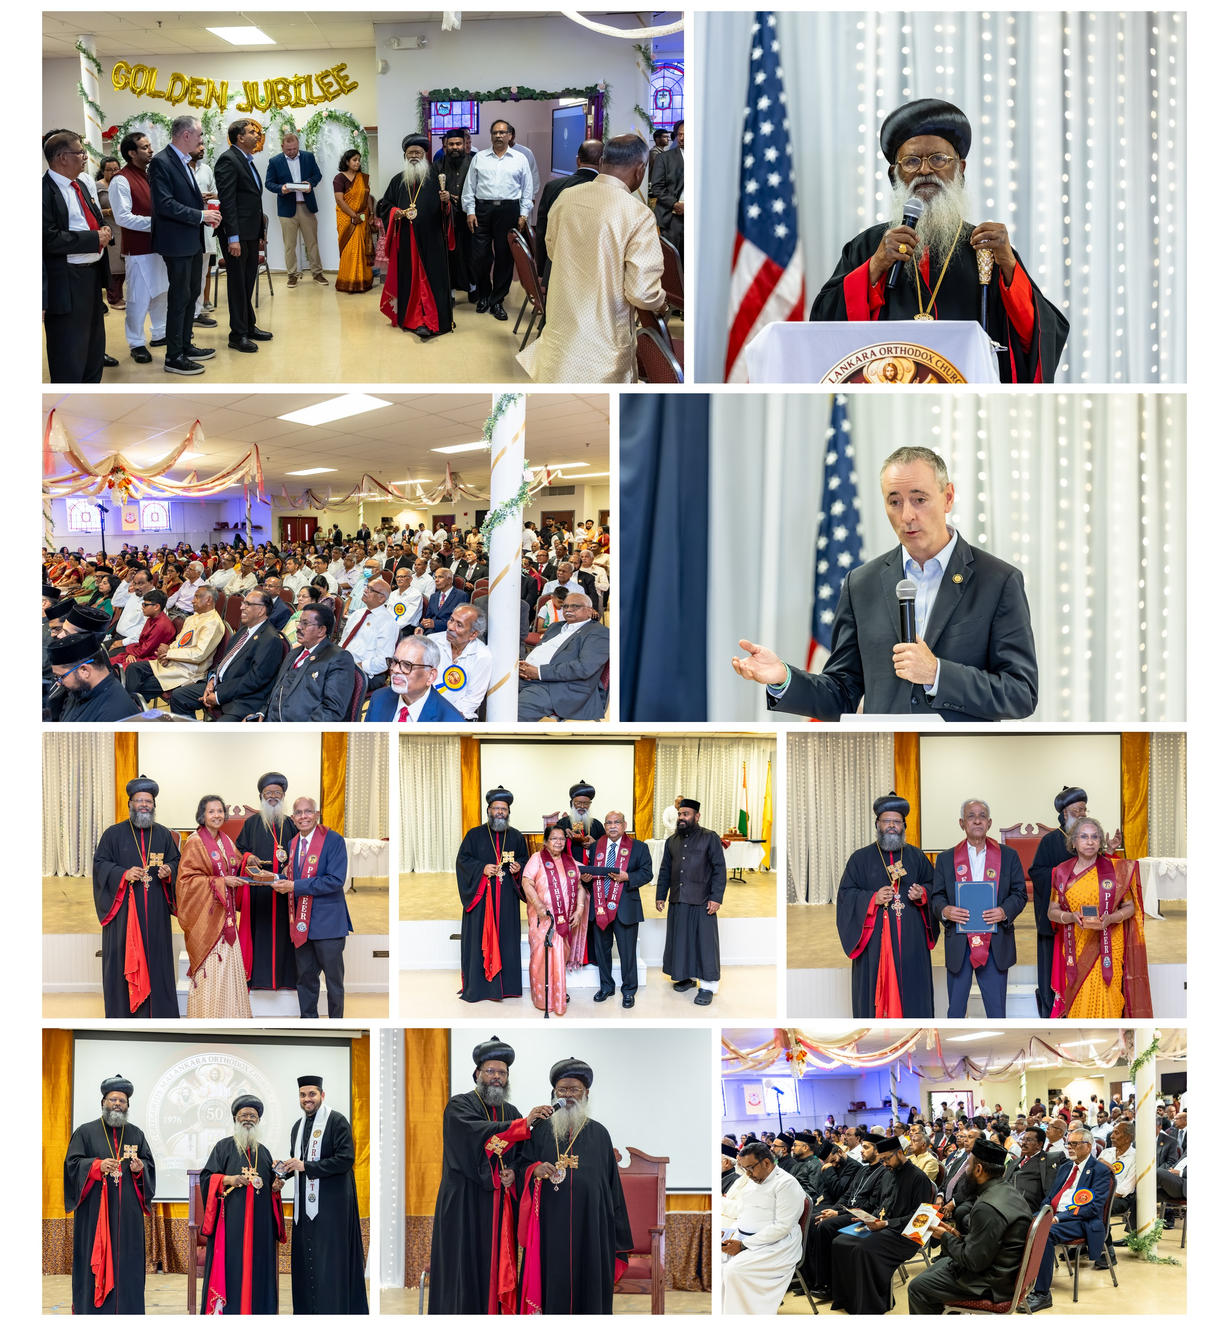
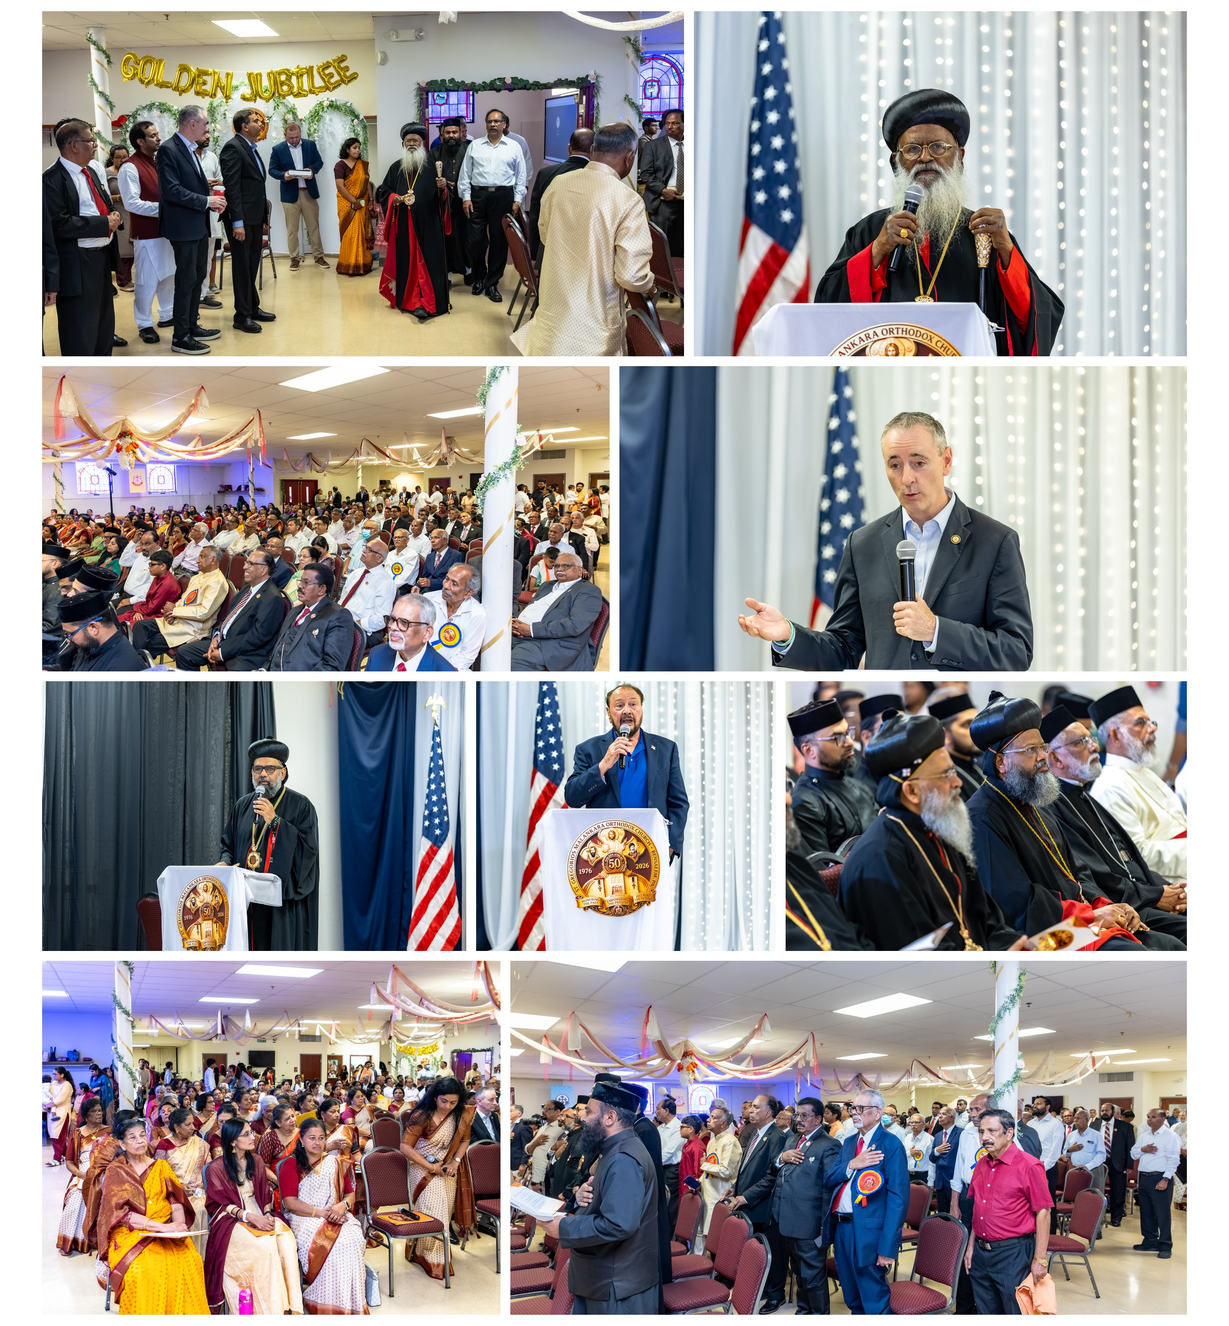
19 Nov (Mathew: honorees in the evening collage not a good idea): p. 49 public meeting page without individual honorees - Thirumenis and dignitaries speaking, the clergy, the hall and the parish.
Claude-Session: https://claude.ai/code/session_01TBVapd8wHKSpqpcgC95Xp1

diff --git a/status.html b/status.html
@@ -28,11 +28,11 @@
 <body>
 <header>
   <h1>Golden Jubilee Souvenir — open items</h1>
-  <p>Updated Nov 19, 2026, 7:38 PM · 246 pages · <a href="https://mjoseph11.github.io/souvenir/">open the souvenir</a></p>
+  <p>Updated Nov 19, 2026, 7:41 PM · 246 pages · <a href="https://mjoseph11.github.io/souvenir/">open the souvenir</a></p>
 </header>
 <main>
 <section><h2>To be completed <span class="count">22</span></h2><p class="hint">Pages and photos still to come, with what each page is meant to hold. Page numbers are from the current book and update on their own.</p><ol><li><span class="pg">p. 12</span><span class="tx">Achen's message is still a draft (marked &quot;awaiting final text&quot;) <em>waiting on Achen</em></span></li><li><span class="pg">p. 12</span><span class="tx">A proper photo of Very Rev. Geevarghese Remban for his message (the one on the page is temporary) and for the Chosen to Shepherd page (p. 26, 96 dpi)</span></li><li><span class="pg">p. 14</span><span class="tx">Message from the Trustee: photo missing — Mr. Thomas Ninan
-          TrusteeSt. Gregorios Malankara Orthodox Church, Bensalem</span></li><li><span class="pg">p. 14</span><span class="tx">Reji (Thomas) Ninan's picture for the Trustee's message (p. 14) - Reji is looking for one (Manoj, 18 Nov 8:19 PM); Suchin will take his photo this Sunday (9:48 PM) <em>waiting on Suchin · asked 2026-11-18</em></span></li><li><span class="pg">p. 26</span><span class="tx">A Farewell Message: From Very Rev. Geevarghese Remban<span class="about">A farewell message to the parish after fifteen years as Vicar (2011–2026), to be requested from Achen.</span></span></li><li><span class="pg">p. 27</span><span class="tx">Fifteen Years in Pictures: Very Rev. Geevarghese Remban (Shibu Achen) with Our Parish<span class="about">Photographs from his years at SGMOC, the August 27, 2026 announcement and the parish felicitation. A high-resolution portrait is also needed — the current photo (170×241 px) is too small to print.</span></span></li><li><span class="pg">p. 41</span><span class="tx">Founding members: use Manoj's Acrobat list (all names valid, even the struck-out ones); cross-check names and spelling with Ente Palli or the church list - Suchin checking against the Ente Palli list tonight (19 Nov 7:11 PM) <em>waiting on Suchin · asked 2026-11-18</em></span></li><li><span class="pg">p. 43</span><span class="tx">Our Parish: Our Parish in Pictures <em>planned: 3–6 pages, ending with the Perunnal</em><span class="about">Milestone photographs and significant events (cemetery purchase, monument, ministry center, consecration 2009, and more).</span></span></li><li><span class="pg">p. 48</span><span class="tx">Golden Jubilee afternoon/evening pictures: two new pages from the photographer's set (procession; public meeting and pioneer honors), pp. 48-49 (Manoj 19 Nov 7:30 PM; Molsey: none in the collage). Cultural programs still have no pictures <em>waiting on Suchin - Sumod does not have them; maybe Jiji Koshy (18 Nov 8:22 PM) · asked 2026-11-18</em></span></li><li><span class="pg">p. 53</span><span class="tx">In Memoriam: Church Members Remembered Since 1976<span class="about">Members of our parish who have fallen asleep in the Lord since 1976. Being prepared by Santosh.</span></span></li><li><span class="pg">p. 74</span><span class="tx">GROW: Secretary and Treasurer (now TBD), a write-up of GROW at SGMOC, and photos for the two empty photo boxes - Manoj asking Silvi; GROW and GROW Sprouts together should be one page (19 Nov 6:52 PM)</span></li><li><span class="pg">p. 76</span><span class="tx">MGOCSM: write-up of its history at SGMOC and photos for the empty photo boxes - Youth League/MGOCSM will send by Sunday (Manoj, 19 Nov 6:51 PM)</span></li><li><span class="pg">p. 77</span><span class="tx">MGOCSM / Youth League: MGOCSM — In Pictures <em>planned: 2 side-by-side pages</em><span class="about">Group photo, retreats and activities.</span></span></li><li><span class="pg">p. 84</span><span class="tx">Larger originals of &quot;Sock Drive, November 2020&quot; and &quot;Winter Coat Drive banner, 2020&quot; (both print below 150 dpi) <em>waiting on Silvi Chacko · asked 2026-11-18</em></span></li><li><span class="pg">p. 238</span><span class="tx">Golden Jubilee Sponsor: Sajicha's CPA<span class="about">Sponsor advertisement — coming from Sajicha (tomorrow, 19 Nov).</span></span></li><li><span class="pg">p. 239</span><span class="tx">Fluitron ad is Thomas Joseph's (TJ) (Suchin 9:39 AM, Manoj 10:41 AM) - added on p. 237 in place of Manoj's placeholder ad; the file is only 707x1000 (107 dpi) - need the original, ideally a PDF <em>waiting on Thomas Joseph · asked 2026-11-19</em></span></li><li><span class="pg">p. 240</span><span class="tx">Glossary<span class="about">Orthodox and Malayalam terms used in this book (Achen, Kochamma, Holy Qurbana, Perunnal, Remban, Kalpana…), to be compiled.</span></span></li><li><span class="pg">p. 241</span><span class="tx">Acknowledgements: Editorial Board &amp; Acknowledgements<span class="about">Editorial board: Manoj Chacko, Suchin Thompson, Molsey Thomas, Shiju Poovathoor, Jinu John, Mathew Joseph. Full list and thanks to be finalized.</span></span></li><li><span class="pg"></span><span class="tx">Picture pages: Golden Jubilee in Pictures (4 pages) and Our Parish in Pictures still to do in the full-space style (MMVS done) - asked Manoj whether he is sending new full-size collages - Shijicha has the selected pictures (Manoj 9:37 PM) <em>waiting on Shijicha · asked 2026-11-18</em></span></li><li><span class="pg"></span><span class="tx">Shibu Achen (Remban) page and pictures - Lyn working on it, hopefully by 20 Nov (Manoj, 19 Nov 6:50 PM) <em>waiting on Lyn · asked 2026-11-19</em></span></li><li><span class="pg"></span><span class="tx">Member proofs: 28 still to send and 60 approvals to get - aim to finish in the next couple of days; tracked in Manoj's spreadsheet (19 Nov 5:45 PM; Molsey and another member helping) <em>waiting on Editorial board · asked 2026-11-19</em></span></li><li><span class="pg"></span><span class="tx">Golden Jubilee cultural programs: no pictures yet (the photographer's set has none) - Gigi uncle's video or the GJ social media team <em>waiting on Manoj · asked 2026-11-19</em></span></li></ol></section>
+          TrusteeSt. Gregorios Malankara Orthodox Church, Bensalem</span></li><li><span class="pg">p. 14</span><span class="tx">Reji (Thomas) Ninan's picture for the Trustee's message (p. 14) - Reji is looking for one (Manoj, 18 Nov 8:19 PM); Suchin will take his photo this Sunday (9:48 PM) <em>waiting on Suchin · asked 2026-11-18</em></span></li><li><span class="pg">p. 26</span><span class="tx">A Farewell Message: From Very Rev. Geevarghese Remban<span class="about">A farewell message to the parish after fifteen years as Vicar (2011–2026), to be requested from Achen.</span></span></li><li><span class="pg">p. 27</span><span class="tx">Fifteen Years in Pictures: Very Rev. Geevarghese Remban (Shibu Achen) with Our Parish<span class="about">Photographs from his years at SGMOC, the August 27, 2026 announcement and the parish felicitation. A high-resolution portrait is also needed — the current photo (170×241 px) is too small to print.</span></span></li><li><span class="pg">p. 41</span><span class="tx">Founding members: use Manoj's Acrobat list (all names valid, even the struck-out ones); cross-check names and spelling with Ente Palli or the church list - Suchin checking against the Ente Palli list tonight (19 Nov 7:11 PM) <em>waiting on Suchin · asked 2026-11-18</em></span></li><li><span class="pg">p. 43</span><span class="tx">Our Parish: Our Parish in Pictures <em>planned: 3–6 pages, ending with the Perunnal</em><span class="about">Milestone photographs and significant events (cemetery purchase, monument, ministry center, consecration 2009, and more).</span></span></li><li><span class="pg">p. 48</span><span class="tx">Golden Jubilee afternoon/evening pictures: two new pages from the photographer's set (procession; public meeting), pp. 48-49 (Manoj 19 Nov 7:30 PM; Molsey: none in the collage). Cultural programs still have no pictures <em>waiting on Suchin - Sumod does not have them; maybe Jiji Koshy (18 Nov 8:22 PM) · asked 2026-11-18</em></span></li><li><span class="pg">p. 53</span><span class="tx">In Memoriam: Church Members Remembered Since 1976<span class="about">Members of our parish who have fallen asleep in the Lord since 1976. Being prepared by Santosh.</span></span></li><li><span class="pg">p. 74</span><span class="tx">GROW: Secretary and Treasurer (now TBD), a write-up of GROW at SGMOC, and photos for the two empty photo boxes - Manoj asking Silvi; GROW and GROW Sprouts together should be one page (19 Nov 6:52 PM)</span></li><li><span class="pg">p. 76</span><span class="tx">MGOCSM: write-up of its history at SGMOC and photos for the empty photo boxes - Youth League/MGOCSM will send by Sunday (Manoj, 19 Nov 6:51 PM)</span></li><li><span class="pg">p. 77</span><span class="tx">MGOCSM / Youth League: MGOCSM — In Pictures <em>planned: 2 side-by-side pages</em><span class="about">Group photo, retreats and activities.</span></span></li><li><span class="pg">p. 84</span><span class="tx">Larger originals of &quot;Sock Drive, November 2020&quot; and &quot;Winter Coat Drive banner, 2020&quot; (both print below 150 dpi) <em>waiting on Silvi Chacko · asked 2026-11-18</em></span></li><li><span class="pg">p. 238</span><span class="tx">Golden Jubilee Sponsor: Sajicha's CPA<span class="about">Sponsor advertisement — coming from Sajicha (tomorrow, 19 Nov).</span></span></li><li><span class="pg">p. 239</span><span class="tx">Fluitron ad is Thomas Joseph's (TJ) (Suchin 9:39 AM, Manoj 10:41 AM) - added on p. 237 in place of Manoj's placeholder ad; the file is only 707x1000 (107 dpi) - need the original, ideally a PDF <em>waiting on Thomas Joseph · asked 2026-11-19</em></span></li><li><span class="pg">p. 240</span><span class="tx">Glossary<span class="about">Orthodox and Malayalam terms used in this book (Achen, Kochamma, Holy Qurbana, Perunnal, Remban, Kalpana…), to be compiled.</span></span></li><li><span class="pg">p. 241</span><span class="tx">Acknowledgements: Editorial Board &amp; Acknowledgements<span class="about">Editorial board: Manoj Chacko, Suchin Thompson, Molsey Thomas, Shiju Poovathoor, Jinu John, Mathew Joseph. Full list and thanks to be finalized.</span></span></li><li><span class="pg"></span><span class="tx">Picture pages: Golden Jubilee in Pictures (4 pages) and Our Parish in Pictures still to do in the full-space style (MMVS done) - asked Manoj whether he is sending new full-size collages - Shijicha has the selected pictures (Manoj 9:37 PM) <em>waiting on Shijicha · asked 2026-11-18</em></span></li><li><span class="pg"></span><span class="tx">Shibu Achen (Remban) page and pictures - Lyn working on it, hopefully by 20 Nov (Manoj, 19 Nov 6:50 PM) <em>waiting on Lyn · asked 2026-11-19</em></span></li><li><span class="pg"></span><span class="tx">Member proofs: 28 still to send and 60 approvals to get - aim to finish in the next couple of days; tracked in Manoj's spreadsheet (19 Nov 5:45 PM; Molsey and another member helping) <em>waiting on Editorial board · asked 2026-11-19</em></span></li><li><span class="pg"></span><span class="tx">Golden Jubilee cultural programs: no pictures yet (the photographer's set has none) - Gigi uncle's video or the GJ social media team <em>waiting on Manoj · asked 2026-11-19</em></span></li></ol></section>
 <section><h2>Low-quality pictures <span class="count">11</span></h2><p class="hint">These print below 150 dpi at their size on the page — a larger copy of the original is needed.</p><ol><li><span class="pg">p. 24</span><span class="tx">Chosen to Shepherd — Geevarghese Remban <em>96 dpi</em></span></li><li><span class="pg">p. 34</span><span class="tx">Our Parish History — Torresdale Church <em>148 dpi</em></span></li><li><span class="pg">p. 36</span><span class="tx">Our Parish History — Sunthroneeso of H.G. Zachariah Mar Nicholovos <em>92 dpi</em></span></li><li><span class="pg">p. 37</span><span class="tx">Our Parish History — Bensalem 5k, 2016 <em>149 dpi</em></span></li><li><span class="pg">p. 57</span><span class="tx">Our Sunday School — ss-03 <em>114 dpi</em></span></li><li><span class="pg">p. 84</span><span class="tx">SGMOC Mission Board — Sock Drive, November 2020 <em>107 dpi</em></span></li><li><span class="pg">p. 84</span><span class="tx">SGMOC Mission Board — Winter Coat Drive banner, 2020 <em>93 dpi</em></span></li><li><span class="pg">p. 140</span><span class="tx">Alex John &amp; Family <em>136 dpi</em></span></li><li><span class="pg">p. 234</span><span class="tx">Golden Jubilee Sponsor — Molly Mathew — Conquer Your Future <em>86 dpi</em></span></li><li><span class="pg">p. 235</span><span class="tx">Golden Jubilee Sponsor — Malabar Catering <em>141 dpi</em></span></li><li><span class="pg">p. 239</span><span class="tx">Golden Jubilee Sponsor — Fluitron — Thomas Joseph <em>107 dpi</em></span></li></ol></section>
 <section><h2>Questions <span class="count">5</span></h2><ol><li><span class="pg">p. 41</span><span class="tx">&quot;V. S. Mathew &amp; Rachel (Uncle came 1977)&quot; — is this correct? <em>asked 2026-11-18</em></span></li><li><span class="pg">p. 81</span><span class="tx">The Mission Board runs to 18 pages — too many; Molsey finds it long and repetitive. Manoj to go through it. <em>waiting on Manoj - Silvi's write-up stays for the sample print; Manoj will rework it after (&quot;very hard read, so many repetitions&quot;, 18 Nov 8:41 PM) · asked 2026-11-17</em></span></li><li><span class="pg">p. 85</span><span class="tx">&quot;Ivin's Outreach, 2021&quot; — should the picture be straightened? <em>waiting on Silvi Chacko · asked 2026-11-18</em></span></li><li><span class="pg"></span><span class="tx">Spine width and page count for the order: 242 inner pages plus 4 printed cover pages (246 page sides) - check Vistaprint's template; print file uses a 0.5in spine <em>waiting on Manoj</em></span></li><li><span class="pg"></span><span class="tx">Farewell message from Very Rev. Geevarghese Remban: Manoj thinks it is not needed (&quot;it's never a farewell&quot;) - remove the placeholder page? The book also still waits on his main message (Manoj, 19 Nov 6:50 PM) <em>waiting on Mathew · asked 2026-11-19</em></span></li></ol></section>
 <section class="done"><h2>Recently done <span class="count">45</span></h2><ol><li><span class="pg">p. 4</span><span class="tx">Which St. Thomas picture? Achen's choice (the painting used in the last souvenir) is now on the page. <em>done 2026-11-18</em></span></li><li><span class="pg">p. 12</span><span class="tx">Remban's message laid out like Fr. K. P. Varghese's page, with a temporary picture (from his WhatsApp profile) until a proper photo comes <em>done 2026-11-18</em></span></li><li><span class="pg">p. 15</span><span class="tx">Lyn's (Mathew Kurian's) portrait on his Secretary's message (p. 15) and the Executive Committee (p. 16) <em>done 2026-11-18</em></span></li><li><span class="pg">p. 15</span><span class="tx">Secretary's message: name printed as Mathew Madathil Kurian, and Remban titled as in the rest of the book (Lyn's answers) <em>done 2026-11-18</em></span></li><li><span class="pg">p. 16</span><span class="tx">Thomas Paul's and Yohannan Mathai's photos — taken from their family pages <em>done 2026-11-18</em></span></li><li><span class="pg">p. 16</span><span class="tx">Management Committee &amp; Board group photos <em>done 2026-11-18</em></span></li><li><span class="pg">p. 20</span><span class="tx">Mayor's certificate made larger (Manoj) <em>done 2026-11-18</em></span></li><li><span class="pg">p. 21</span><span class="tx">Fr. K. P. Varghese: new portrait from Ceena (no longer low quality) and the page titled &quot;With Profound Joy and Gratitude&quot; <em>done 2026-11-18</em></span></li><li><span class="pg">p. 22</span><span class="tx">Fr. Alexander Kurien's message on one page (two columns, smaller text), per Manoj <em>done 2026-11-18</em></span></li><li><span class="pg">p. 22</span><span class="tx">Fr. Alexander Kurien's page: empty space under the left column removed and the title and photo moved up, so the text is larger (7.3pt -&gt; 7.8pt) with both columns full (Mathew) <em>done 2026-11-18</em></span></li><li><span class="pg">p. 23</span><span class="tx">Pictures of Ceena and Achen for their page <em>done 2026-11-18</em></span></li><li><span class="pg">p. 28</span><span class="tx">Nasrani History (Neil Mathew) and A Pilgrimage of Faith (Manoj Chacko, Reji Ninan, Shiju Poovathoor) added from Drive <em>done 2026-11-18</em></span></li><li><span class="pg">p. 42</span><span class="tx">Past Secretaries &amp; Treasurers 1976–2026 laid out (Core Fifty list; 1978, 1981, 1983 still blank) <em>done 2026-11-18</em></span></li><li><span class="pg">p. 42</span><span class="tx">Past Secretaries &amp; Treasurers: the three years nobody could find (1978, 1981, 1983) left out, per Manoj <em>done 2026-11-18</em></span></li><li><span class="pg">p. 67</span><span class="tx">MMVS: honorees photo (Molsey's album), outside photo at the end, and two MMVS in Pictures pages (Manoj's album) <em>done 2026-11-18</em></span></li><li><span class="pg">p. 69</span><span class="tx">MMVS in Pictures (2 pages): photos fill the whole space between header and footer, thin white gaps, like Manoj's sample <em>done 2026-11-18</em></span></li><li><span class="pg">p. 69</span><span class="tx">Picture pages: no leaf background behind the photos - plain white, like Manoj's sample (9:05 PM) <em>done 2026-11-18</em></span></li><li><span class="pg">p. 73</span><span class="tx">Logos Ministry message, leadership and pictures <em>done 2026-11-18</em></span></li><li><span class="pg">p. 73</span><span class="tx">Logos: one page - use one of the big pictures, drop the second (In Pictures) page (Manoj 8:29 PM) <em>done 2026-11-18</em></span></li><li><span class="pg">p. 75</span><span class="tx">GROW Sprouts page <em>done 2026-11-18</em></span></li><li><span class="pg">p. 78</span><span class="tx">Choir page had no footer or page number - standard footer added (found checking the print file) <em>done 2026-11-18</em></span></li><li><span class="pg">p. 78</span><span class="tx">Choir: Reji's picture cut off (Molsey) - the four small photos were cropped tall and cut people at the edges; now every group photo shows whole, and the photos are larger <em>done 2026-11-19</em></span></li><li><span class="pg">p. 79</span><span class="tx">Chenda: names and the 2015 founding year confirmed; Biju Mani's four changes made and the page approved <em>done 2026-11-18</em></span></li><li><span class="pg">p. 79</span><span class="tx">Chenda page: write-up in three sections and four team photos <em>done 2026-11-18</em></span></li><li><span class="pg">p. 80</span><span class="tx">Acolytes write-up and pictures <em>done 2026-11-18</em></span></li><li><span class="pg">p. 80</span><span class="tx">Acolytes: one page - crop the top photo and put the other photos at the bottom (Manoj 8:35 PM) <em>done 2026-11-18</em></span></li><li><span class="pg">p. 127</span><span class="tx">Cherian T. George: 'Best Compliments - Reji, Gem, Joel, Cerena, Crystal &amp; Chinnu' was in their submission but missing under the icon - added (Molsey, 19 Nov 5:32 PM) <em>done 2026-11-19</em></span></li><li><span class="pg">p. 146</span><span class="tx">Mathew Joseph: names now under a 'Best Compliments' line, like the Cherian T. George page (Mathew) <em>done 2026-11-19</em></span></li><li><span class="pg">p. 235</span><span class="tx">Malabar Catering ad: confirm the phone number (215) 677-2785 with the owner (taken from a public listing) - matches their business card (Manoj 9:46 PM) <em>done 2026-11-18</em></span></li><li><span class="pg">p. 235</span><span class="tx">Malabar Catering: Manoj's ad made from their business card (with cell and email) replaces the typeset page (Suchin 9:47 PM: keep it for now; Mathew: swap) <em>done 2026-11-18</em></span></li><li><span class="pg">p. 236</span><span class="tx">State Farm ad (David Samuel) was in the Drive Sponsorship folder but missing from the book - added (Manoj, 19 Nov 8:06 AM) <em>done 2026-11-19</em></span></li><li><span class="pg">p. 237</span><span class="tx">Mable Philip's ad was in the Drive Sponsorship folder but missing from the book - added (Manoj, 19 Nov 8:06 AM) <em>done 2026-11-19</em></span></li><li><span class="pg">p. 245</span><span class="tx">Church Family picnic photo <em>done 2026-11-18</em></span></li><li><span class="pg">p. 245</span><span class="tx">Inside back cover: Our Church Family picture moved after the Index to the last page, so it prints on the inside back cover (Manoj, 11:24 PM);  <em>done 2026-11-18</em></span></li><li><span class="pg"></span><span class="tx">Community Outreach: a photo for the empty photo box - page removed (Manoj), so no longer needed <em>done 2026-11-18</em></span></li><li><span class="pg"></span><span class="tx">Print file: cover spread (back, spine, front) now full width - the earlier 18 Nov file had it squeezed to one page <em>done 2026-11-18</em></span></li><li><span class="pg"></span><span class="tx">Clergy titles the same throughout the book: Very Rev. K. Mathai Cor-Episcopa, Very Rev. Geevarghese Remban, and Rev. Fr. for every priest (Remban, Cor-Episcopa spelled as in the Metropolitan's letter) <em>done 2026-11-18</em></span></li><li><span class="pg"></span><span class="tx">Repeated church name under the titles removed on pp. 12, 14 and 22; every build now checks for a line said twice on a page <em>done 2026-11-18</em></span></li><li><span class="pg"></span><span class="tx">Executive Committee page with individual photos removed - everyone is in the group photos; Management Committee &amp; Board group photos cropped and enlarged (Manoj) <em>done 2026-11-18</em></span></li><li><span class="pg"></span><span class="tx">Message pages (Remban, Vicar, Trustee, Secretary, Fr. K. P. Varghese, Fr. Alexander Kurien, Ceena): photo, name and title the same size on all (Manoj) <em>done 2026-11-18</em></span></li><li><span class="pg"></span><span class="tx">Community Outreach page: remove for now - covered by History and the Mission Board (Manoj 8:36 and 8:40 PM) <em>done 2026-11-18</em></span></li><li><span class="pg"></span><span class="tx">Malabar Catering ad: a &quot;With Best Compliments&quot; page with name, address and phone (owner had no artwork) <em>done 2026-11-18</em></span></li><li><span class="pg"></span><span class="tx">Print file: inside covers now printed - page 2 (Christ the Teacher) on the inside front, page 241 (Index 3 of 3) on the inside back; this also puts even pages on the left as numbered (Manoj, 11:17 PM) <em>done 2026-11-18</em></span></li><li><span class="pg"></span><span class="tx">Print preview had every page one off - Mar Barnabas (p. 7) faced the Catholicos' Kalpana (p. 8) - because the inside covers were blank (Manoj, 11:26 PM). Fixed by printing pp. 2 and 241 on the inside covers: even pages now on the left <em>done 2026-11-18</em></span></li><li><span class="pg"></span><span class="tx">Sample print file for an 80lb paper test: icons and Thirumenis' pages (pp. 2-11) with the covers, on Drive beside the main print file (Manoj, 11:37 PM) <em>done 2026-11-18</em></span></li></ol></section>

diff --git a/index.html b/index.html
@@ -3393,7 +3393,7 @@
     </div>
   </div>
   <div class="m-content">
-    <img class="framed-img" src="images/collage/jubilee-evening-2.jpg" alt="Golden Jubilee public meeting: the Thirumenis, dignitaries and the honoring of pioneers" style="object-fit:cover">
+    <img class="framed-img" src="images/collage/jubilee-evening-2.jpg" alt="Golden Jubilee public meeting: the Thirumenis, dignitaries and the parish" style="object-fit:cover">
   </div>
   <div class="page-footer">
     <span>St. Gregorios Malankara Orthodox Church</span>
